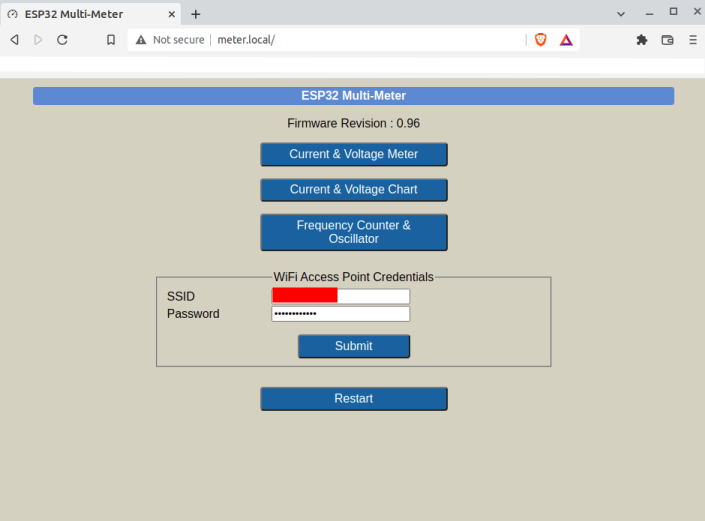
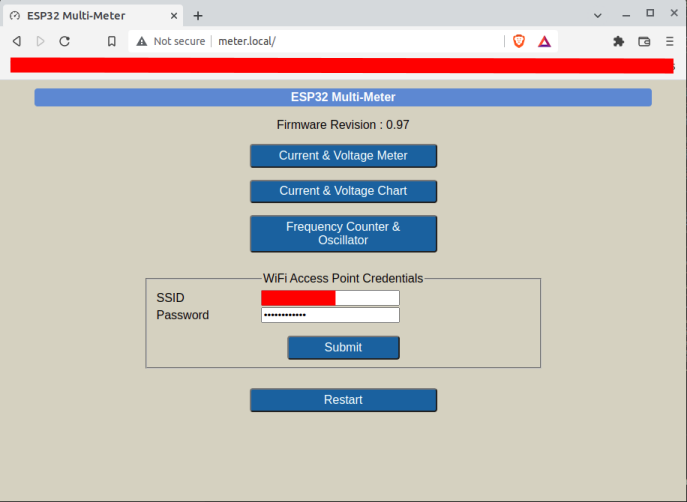
meter scale options, off-scale warning

Changed region(s): [[0.0, 0.0, 1.0, 0.8367], [0.0, 0.9861, 1.0, 1.0]]

diff --git a/data/capture_cv_meter.js b/data/capture_cv_meter.js
@@ -1,10 +1,17 @@
 
 let iScale = 0.05;
 let vScale = 0.00125;
-let i, v;
+let offScale = 0;
+let i, v, bgColor;
 
 function update_meter() {
 	document.getElementById("ma").innerHTML = i.toFixed(3) + " mA"; 
+	if (offScale == 1) {
+		document.getElementById("ma").style.backgroundColor = 'orange';
+		}
+	else {
+		document.getElementById("ma").style.backgroundColor = bgColor;
+		}
 	document.getElementById("volts").innerHTML = v.toFixed(3) + " V";
 	}	
 
@@ -16,11 +23,13 @@ var websocket;
 window.addEventListener('load', on_window_load);
 
 function on_window_load(event) {
+	bgColor = document.getElementById("ma").style.backgroundColor;
     init_web_socket();
 	}
 
 function trigger_capture() {
-	websocket.send("m");
+	let scale = document.getElementById("scale").value;
+	websocket.send("m"+scale);
 	}
 
 var periodicTrigger = setInterval(trigger_capture, 1000);
@@ -54,10 +63,11 @@ function on_ws_close(event) {
 
 function on_ws_message(event) {
 	let view = new Int16Array(event.data);
-	if ((view.length == 4) && (view[0] == 4444)){
+	if ((view.length == 5) && (view[0] == 4444)){
 		iScale = (view[1] == 0 ? 0.05 : 0.002381);
 		i = view[2] * iScale;
 		v = view[3] * vScale;
+		offScale = view[4];
 		update_meter();
 		} 
 	// acknowledge packet 

diff --git a/data/cv_meter.html b/data/cv_meter.html
@@ -11,11 +11,27 @@
 <div style="align-items:center; width:60%; margin:auto;">	
 <h1>Current & Voltage Meter</h1>
 </div>
-<p>
-
+<br>	
+	<div class="capture" >
+		<table>
+		<tr>
+		<td><label for="scale">Current Full-Scale [Resolution]</label></td>
+		<td>
+			<select id="scale" name="scale" class="scale-select">
+				<option value="0" "selected">1638.35mA [50uA]</option>
+				<option value="1">78.017mA [2.4uA]</option>
+				<option value="2">Auto</option>
+			</select>
+		</td>
+		</tr>
+		</table>
+	</div>
+<br>
 	<p class="current" id="ma"></p>
-<p>	
+<br>
+
 	<p class="voltage" id="volts"></p>
+
 
 </body>
 </html>

diff --git a/data/cv_chart.html b/data/cv_chart.html
@@ -50,11 +50,11 @@
 	</tr>
 
 	<tr>
-	<td><label for="scale">Current Range</label></td>
+	<td><label for="scale">Current Full-Scale [Resolution]</label></td>
 	<td>
 		<select id="scale" name="scale" class="scale-select">
-			<option value="0" "selected">FS=1638mA, res=50uA</option>
-			<option value="1">FS=78mA, res=2.4uA</option>
+			<option value="0" "selected">1638.35mA [50uA]</option>
+			<option value="1">78.017mA [2.4uA]</option>
 		</select>
 	</td>
 	<td><button  style="margin-left:40px;margin-right:40px;" id="capture">Capture</button></td>

diff --git a/src/ina226.cpp b/src/ina226.cpp
@@ -76,58 +76,56 @@ uint16_t ina226_read_reg(uint8_t regAddr) {
 // Bus ADC resolution is 1.25mV/lsb 
 // Full scale = (32767 * 1.25) mV = 40.95875V
 
-void ina226_capture_oneshot(volatile MEASURE_t &measure, volatile int16_t* buffer) {
-	switch_scale(SCALE_LO);
+bool ina226_capture_oneshot(volatile MEASURE_t &measure, volatile int16_t* buffer, bool autoScale) {
+	uint16_t reg_bus, reg_shunt;
+	switch_scale(measure.m.cv_meas.scale);
 	// conversion ready -> alert pin goes low
 	ina226_write_reg(REG_MASK, 0x0400);
 	// configure for one-shot bus and shunt adc conversion
 	buffer[0] = MSG_TX_CV_METER;
-	buffer[1] = SCALE_LO;
+	buffer[1] = measure.m.cv_meas.scale;
 	// configure for one-shot bus and shunt adc conversion
 	ina226_write_reg(REG_CFG, measure.m.cv_meas.cfg | 0x0003);
-	uint32_t tstart = micros();
+	// throw away first sample
 	// pinAlert pulled up to 3v3, active low on conversion complete
 	while (digitalRead(pinAlert) == HIGH);
+	// read shunt and bus ADCs
+	reg_shunt = ina226_read_reg(REG_SHUNT); 
+	reg_bus = ina226_read_reg(REG_VBUS); 
+
+	uint32_t tstart = micros();
 	ina226_write_reg(REG_CFG, measure.m.cv_meas.cfg | 0x0003);
 	while (digitalRead(pinAlert) == HIGH);
 	uint32_t tend = micros();
 	// measure the INA226 total conversion time for shunt and bus adcs
 	uint32_t us = tend - tstart;
-
-	uint16_t reg_bus, reg_shunt;
 	// read shunt and bus ADCs
 	reg_shunt = ina226_read_reg(REG_SHUNT);
 	reg_bus = ina226_read_reg(REG_VBUS); 
 	int16_t shunt_i16 = (int16_t)reg_shunt;
-	measure.m.cv_meas.iavgma = shunt_i16*0.002381f;
-	measure.m.cv_meas.scale = SCALE_LO;
-	if (measure.m.cv_meas.iavgma > 78.0f) {
-		switch_scale(SCALE_HI);
-		buffer[1] = SCALE_HI;
-		ina226_write_reg(REG_CFG, measure.m.cv_meas.cfg | 0x0003);
-		// pinAlert pulled up to 3v3, active low on conversion complete
-		while (digitalRead(pinAlert) == HIGH);
-		reg_shunt = ina226_read_reg(REG_SHUNT);
-		shunt_i16 = (int16_t)reg_shunt;
-		reg_bus = ina226_read_reg(REG_VBUS); 
-		measure.m.cv_meas.iavgma = shunt_i16*0.05f;
-		measure.m.cv_meas.scale = SCALE_HI;
-		}
-
+	bool offScale = ((shunt_i16 == 32767) || (shunt_i16 == -32768)) ? true : false;
 	buffer[2] = shunt_i16;
 	buffer[3] = (int16_t)reg_bus;
+	buffer[4] = offScale ? 1 : 0;
+	measure.m.cv_meas.iavgma = (measure.m.cv_meas.scale == SCALE_HI)? shunt_i16*0.05f : shunt_i16*0.002381f;
 	measure.m.cv_meas.iminma = measure.m.cv_meas.iavgma;
 	measure.m.cv_meas.imaxma = measure.m.cv_meas.iavgma;
 	measure.m.cv_meas.vavg = reg_bus*0.00125f; 
 	measure.m.cv_meas.vmax = measure.m.cv_meas.vavg;
 	measure.m.cv_meas.vmin = measure.m.cv_meas.vavg;
 	measure.m.cv_meas.sampleRate = 1000000.0f/(float)us;
-	MeterReadyFlag = true;
-	ESP_LOGI(TAG,"OneShot : 0x%04X %s %dus %dHz %.1fV %.3fmA\n", measure.m.cv_meas.cfg, measure.m.cv_meas.scale == SCALE_LO ? "LO" : "HI", us, (int)(measure.m.cv_meas.sampleRate+0.5f), measure.m.cv_meas.vavg, measure.m.cv_meas.iavgma);
+	ESP_LOGI(TAG,"OneShot : [0x%04X scale=%d] %dus %dHz %.1fV %.3fmA\n", measure.m.cv_meas.cfg, measure.m.cv_meas.scale, us, (int)(measure.m.cv_meas.sampleRate+0.5f), measure.m.cv_meas.vavg, measure.m.cv_meas.iavgma);
+	if (autoScale == false) {
+		MeterReadyFlag = true;
+		}
+	else {
+		MeterReadyFlag = (offScale == false) ? true : false;
+		}
+	return  offScale == true ? false : true; // return false for off-scale current reading
 	}
 
 
-bool ina226_capture_averaged_sample(volatile MEASURE_t &measure, volatile int16_t* buffer) {
+bool ina226_capture_averaged_sample(volatile MEASURE_t &measure, volatile int16_t* buffer, bool autoScale) {
 	int16_t data_i16; // shunt and bus readings 
 	int32_t savg, bavg; // averaging accumulators
 	uint16_t reg_bus, reg_shunt;
@@ -151,6 +149,7 @@ bool ina226_capture_averaged_sample(volatile MEASURE_t &measure, volatile int16_
 	savg = bavg = 0;
 	// 0.4s averaging, worst case need to re-measure with high-scale => 0.8 seconds
 	int numSamples = 400000/(int)measure.m.cv_meas.periodUs; 
+	bool offScale = false;
 	while (inx < numSamples){
 		uint32_t t1 = micros();
 		// pinAlert pulled up to 3v3, active low on conversion complete
@@ -161,7 +160,7 @@ bool ina226_capture_averaged_sample(volatile MEASURE_t &measure, volatile int16_
 		
 		data_i16 = (int16_t)reg_shunt;
 		if ((data_i16 == 32767) || (data_i16 == -32768)) {
-			return false; // off-scale reading
+			offScale = true; 
 			}
 		savg += i32(data_i16);
 
@@ -180,10 +179,16 @@ bool ina226_capture_averaged_sample(volatile MEASURE_t &measure, volatile int16_
 	measure.m.cv_meas.vavg = bavg*0.00125f; 
 	buffer[2] = (int16_t)savg;
 	buffer[3] = (int16_t)bavg;
+	buffer[4] = offScale == true ? 1 : 0;
 	// vload = vbus
 	ESP_LOGI(TAG,"CV Meter sample : %s %.1fV %.3fmA\n", measure.m.cv_meas.scale == SCALE_LO ? "LO" : "HI", measure.m.cv_meas.vavg, measure.m.cv_meas.iavgma);
-	MeterReadyFlag = true;
-	return true;
+	if (autoScale == false) {
+		MeterReadyFlag = true;
+		}
+	else {
+		MeterReadyFlag = (offScale == false) ? true : false;
+		}
+	return offScale == true ? false : true;
 	}
 
 
@@ -378,6 +383,6 @@ void ina226_test_capture() {
 	Measure.m.cv_meas.scale = SCALE_HI;
 	for (int inx = 0; inx < NUM_CFG; inx++) {
 		Measure.m.cv_meas.cfg = Config[inx].reg;
-		ina226_capture_oneshot(Measure, Buffer);
+		ina226_capture_oneshot(Measure, Buffer, false);
 		}
 	}

diff --git a/src/main.cpp b/src/main.cpp
@@ -8,7 +8,7 @@
 #include "ina226.h"
 #include "freq_counter.h"
 
-const char* FwRevision = "0.96";
+const char* FwRevision = "0.97";
 static const char* TAG = "main";
 
 volatile int TxSamples;
@@ -117,7 +117,7 @@ static void wifi_task(void* pVParameter) {
 					if (MeterReadyFlag == true) {
 						MeterReadyFlag = false;
 						LastPacketAckFlag = false;
-						numBytes = 4 * sizeof(int16_t);
+						numBytes = 5 * sizeof(int16_t);
 						ws.binary(ClientID, (uint8_t*)Buffer, numBytes);
 						state = ST_METER_COMPLETE; 
 						}
@@ -274,13 +274,30 @@ static void current_voltage_task(void* pvParameter)  {
 					}
 				else 
 				if (Measure.m.cv_meas.nSamples == 1) {
-					ESP_LOGD(TAG,"Capturing meter sample using low scale");
-					Measure.m.cv_meas.scale = SCALE_LO;
-					bool res = ina226_capture_averaged_sample(Measure, Buffer);
-					if (!res){
+					int scalemode = Measure.m.cv_meas.scale;
+					if (scalemode == SCALE_LO) {
+						ESP_LOGD(TAG,"Capturing meter sample using low scale");
+						Measure.m.cv_meas.scale = SCALE_LO;
+						bool res = ina226_capture_averaged_sample(Measure, Buffer, false);
+						if (!res) ESP_LOGD(TAG,"Warning : offscale reading");
+						}
+					else 
+					if (scalemode == SCALE_HI) {
+						ESP_LOGD(TAG,"Capturing meter sample using hi scale");
 						Measure.m.cv_meas.scale = SCALE_HI;
-						ESP_LOGD(TAG,"Capturing meter sample using high scale");
-						ina226_capture_averaged_sample(Measure, Buffer);
+						bool res = ina226_capture_averaged_sample(Measure, Buffer, false);
+						if (!res) ESP_LOGD(TAG,"Warning : offscale reading");
+						}
+					else {
+						ESP_LOGD(TAG,"Capturing meter sample autorange LO");
+						Measure.m.cv_meas.scale = SCALE_LO;
+						bool res = ina226_capture_averaged_sample(Measure, Buffer, true);
+						if (!res){
+							Measure.m.cv_meas.scale = SCALE_HI;
+							ESP_LOGD(TAG,"Capturing meter sample autorange HI");
+							res = ina226_capture_averaged_sample(Measure, Buffer, false);
+							if (!res) ESP_LOGD(TAG,"Warning : offscale reading");
+							}
 						}
 					}
 				else {

diff --git a/src/ina226.h b/src/ina226.h
@@ -13,6 +13,7 @@
 
 #define SCALE_HI	0 // Shunt R = 0.05 ohms, Full scale = 1.64A
 #define SCALE_LO	1 // Shunt R = 1.05 ohms, Full scale = 78mA
+#define SCALE_AUTO	2 // Automatically switch
 
 #define MSG_GATE_OPEN	1234
 #define MSG_TX_START	1111
@@ -39,10 +40,10 @@ extern volatile bool MeterReadyFlag;
 void	ina226_write_reg(uint8_t regAddr, uint16_t data);
 uint16_t ina226_read_reg(uint8_t regAddr);
 void	ina226_reset();
-bool 	ina226_capture_averaged_sample(volatile MEASURE_t &measure, volatile int16_t* buffer);
+bool	ina226_capture_oneshot(volatile MEASURE_t &measure, volatile int16_t* buffer, bool autoScale);
+bool 	ina226_capture_averaged_sample(volatile MEASURE_t &measure, volatile int16_t* buffer, bool autoScale);
 void 	ina226_capture_buffer_triggered(volatile MEASURE_t &measure, volatile int16_t* buffer);
 void 	ina226_capture_buffer_gated(volatile MEASURE_t &measure, volatile int16_t* buffer);
-void	ina226_capture_oneshot(volatile MEASURE_t &measure, volatile int16_t* buffer);
 void	ina226_test_capture();
 
 #endif

diff --git a/src/wifi_cfg.cpp b/src/wifi_cfg.cpp
@@ -245,6 +245,7 @@ void socket_handle_message(void *arg, uint8_t *data, size_t len) {
 			Measure.m.cv_meas.nSamples = 1;
 			Measure.m.cv_meas.cfg = Config[1].reg;
 			Measure.m.cv_meas.periodUs = Config[1].periodUs;
+			Measure.m.cv_meas.scale = (int)(data[1] - '0');
 			CVCaptureFlag = true;
 			//ESP_LOGI(TAG,"cmd = m");
 			}

diff --git a/README.md b/README.md
@@ -63,8 +63,15 @@ The meter uses a fixed sampling configuration :
 * Shunt ADC conversion time 332uS
 * Averages 0.4 seconds of samples for every meter reading 
 
-The current range is automatically switched. Samples are first captured with the low range setting (0 - 78mA, 2.4uA resolution).
-If any sample is off-scale, the averaging process is restarted with high range (0 - 1638mA, 50uA resolution).
+Select the current scale from one of the following options :
+* HI : Full-scale 1638.35mA, resolution 50uA
+* LO : Full-scale 78.017mA, resolution 2.4uA
+* Auto
+
+If you select `Auto`, samples are first captured with the LO range setting, as this has higher resolution.
+If any sample is off-scale, the averaging process is restarted with HI range configured.
+
+For any selected option, if the final averaging process used off-scale samples, the current display background  will flash orange as a warning.
 
 ## Current & Voltage Chart
 
@@ -75,11 +82,11 @@ Sample rate options :
 * 1000Hz : no sample averaging, vbus ADC conversion time 332uS, shunt ADC conversion time 332uS.
 * 400Hz : averaging 4 samples, vbus ADC conversion time 140uS, shunt ADC conversion time 140uS.
 
-Current range options :
-* 0 - 78mA with 2.4uA resolution
-* 0 - 1638mA with 50uA resolution
+Current scale options :
+* HI : Full-scale 1638.35mA, 50uA resolution
+* LO : Full-scale 78.017mA, 2.4uA resolution
 
-In Chart Display mode, we need to manually select the current range. Auto-ranging is not possible due to the high sampling rate.
+In Chart Display mode, current auto-ranging is not possible due to the high sampling rate.
 
 Click on the legends `ma` and `V` above the plot to toggle the display of the corresponding data.
 
